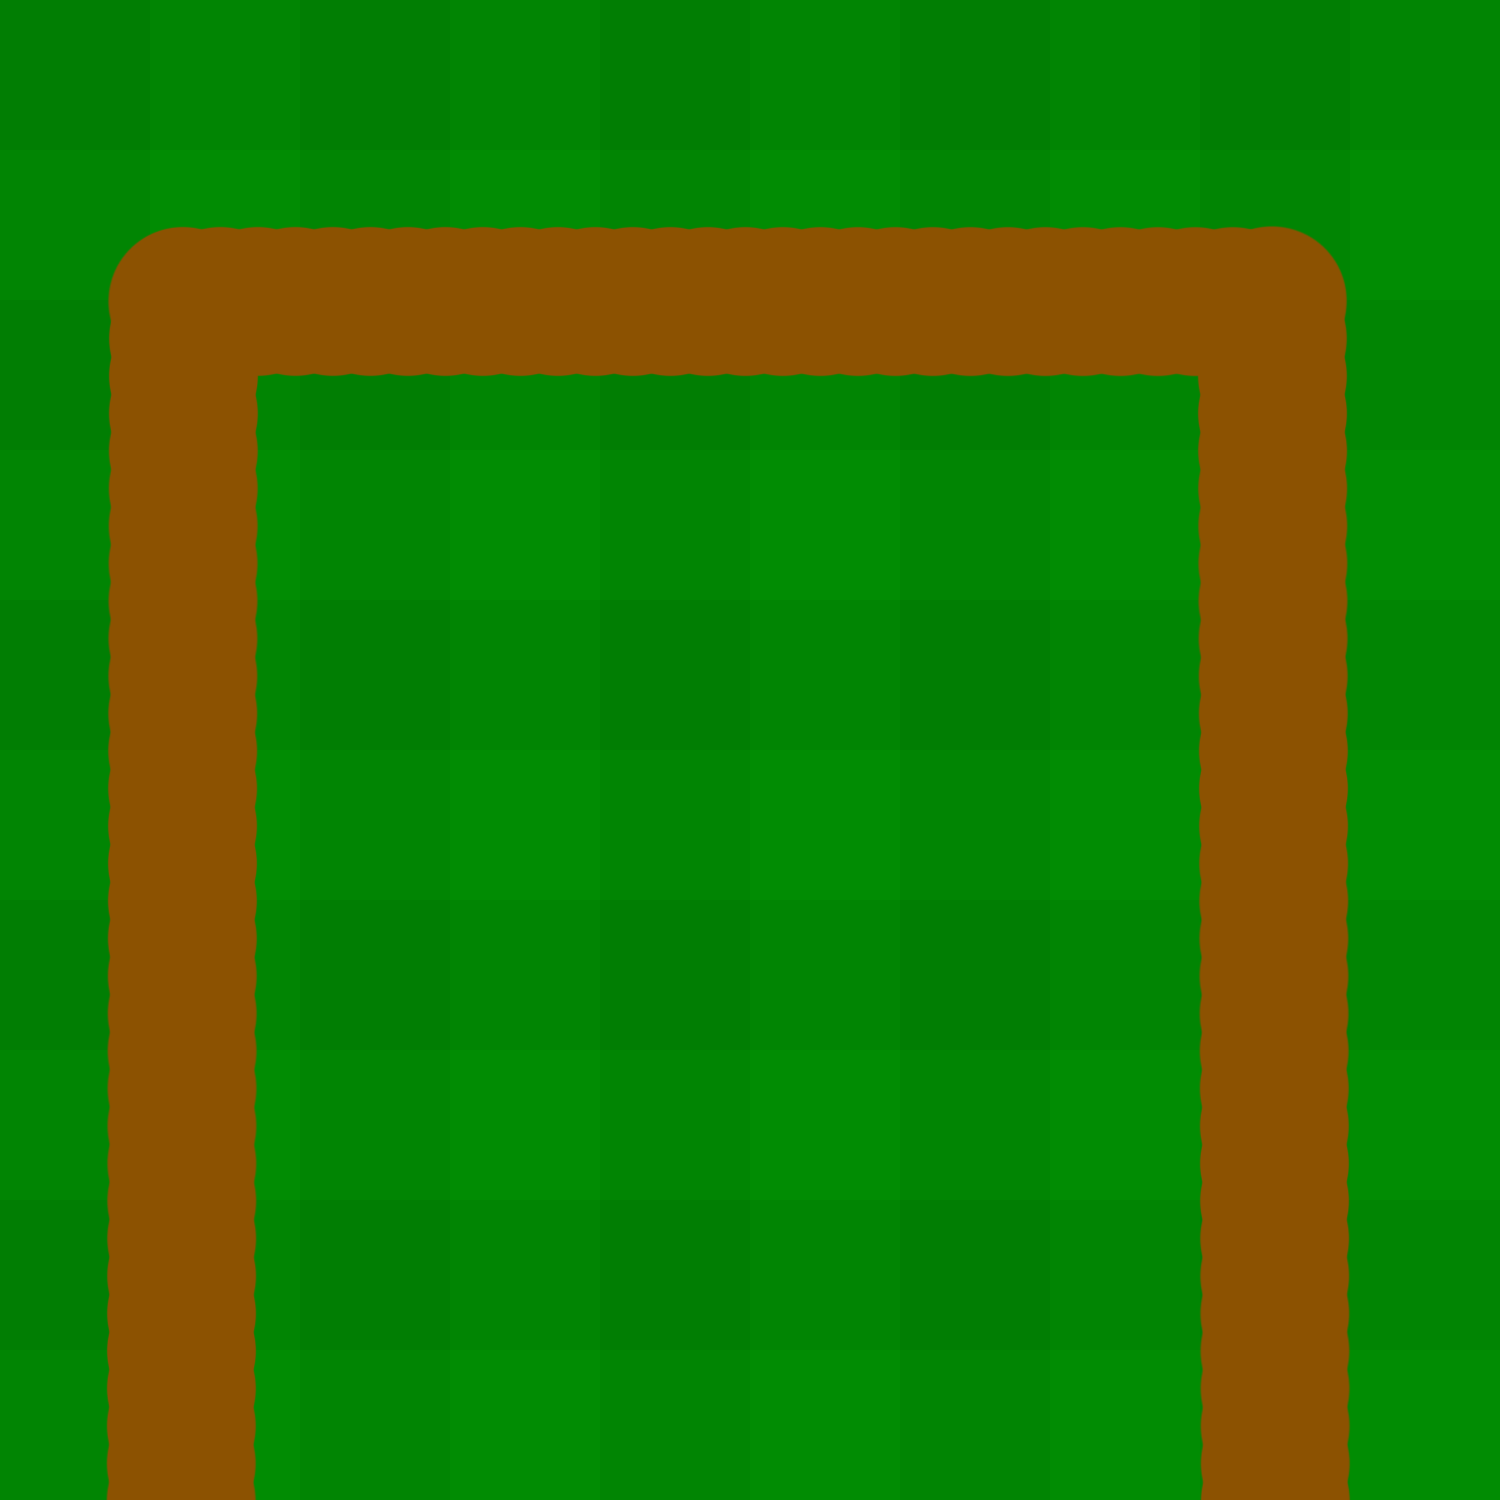
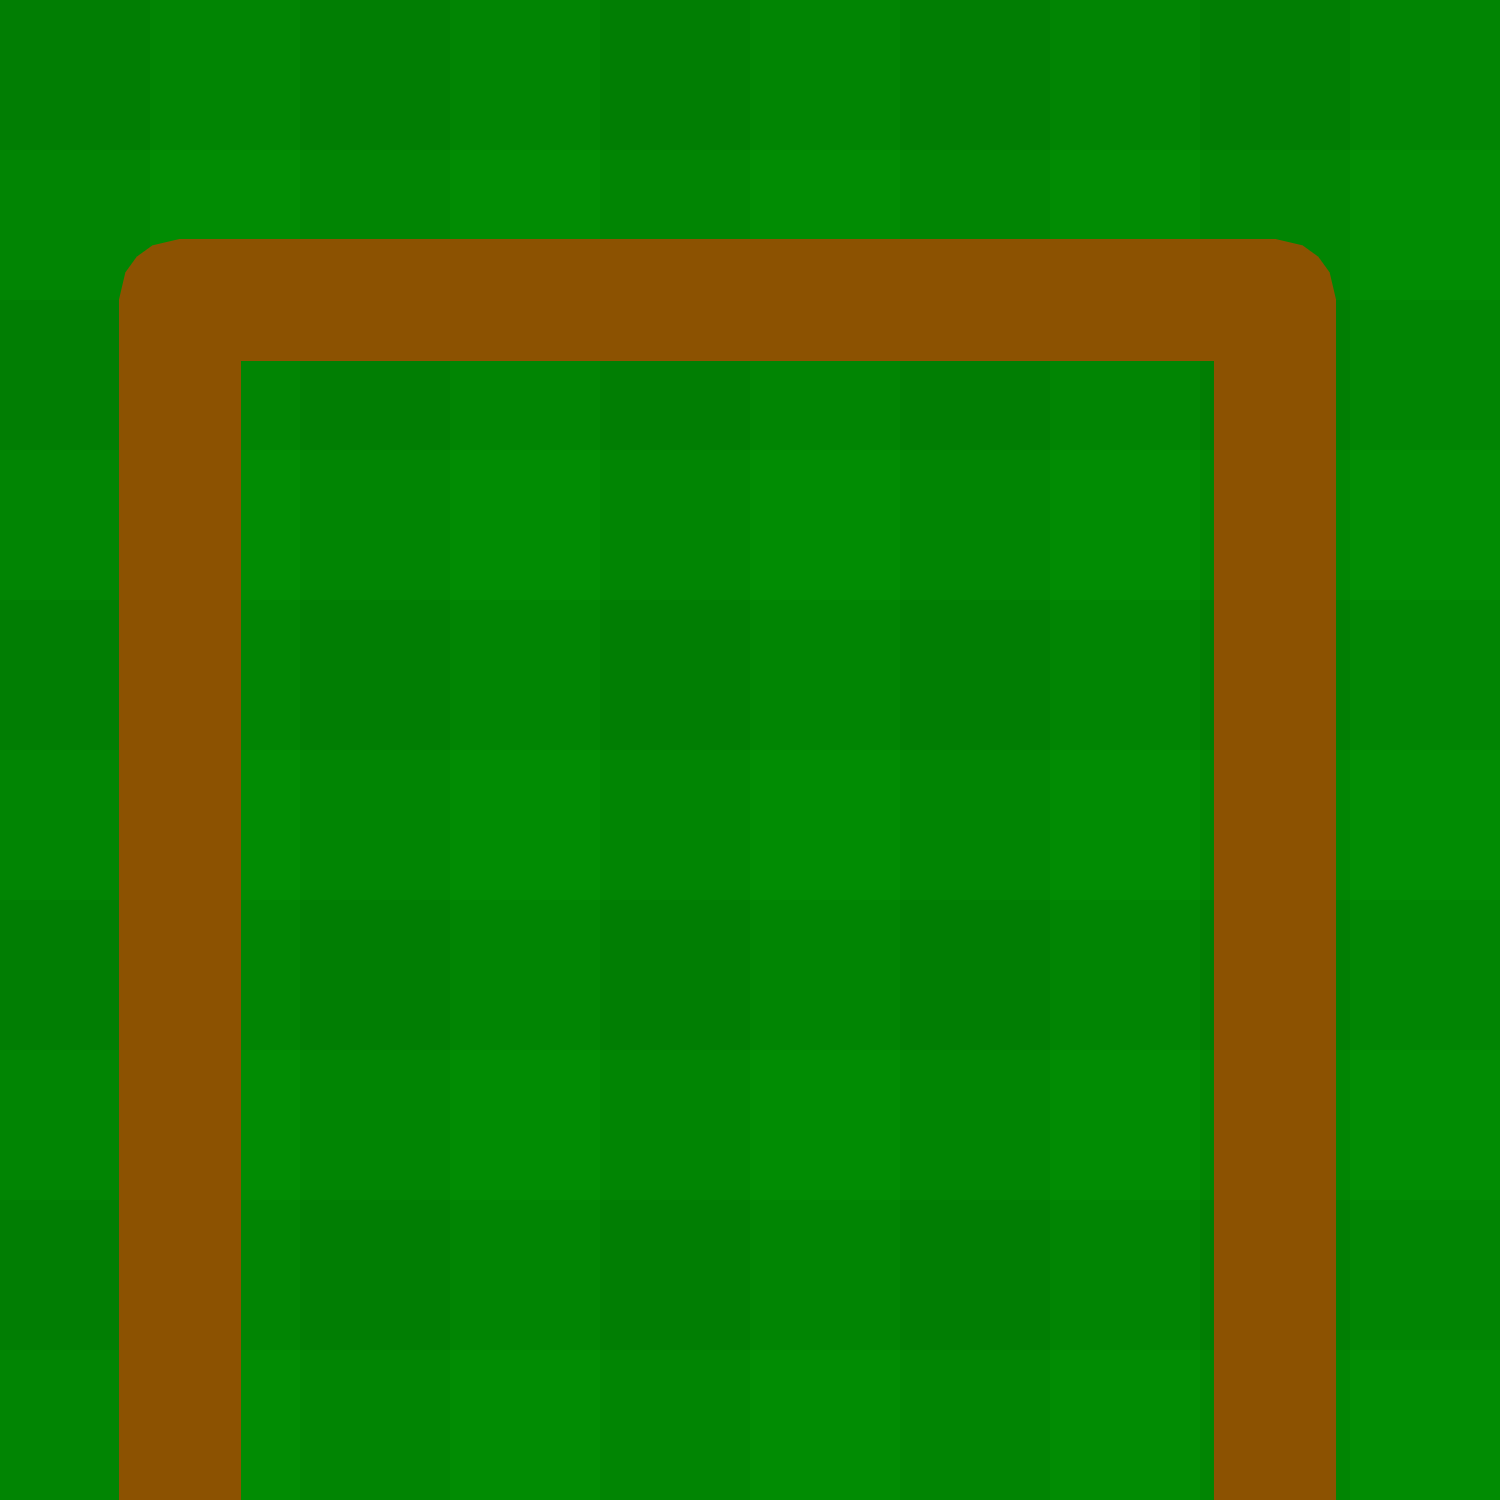
Reduce path widths

Changed region(s): [[0.1533, 0.2147, 0.828, 1.0], [0.0613, 0.1533, 0.8893, 1.0], [0.8893, 0.184, 0.92, 1.0]]

diff --git a/app/objects/board.js b/app/objects/board.js
@@ -1,7 +1,7 @@
 import Ember from 'ember';
 import { mobDimensions } from 'tower-defense/objects/mob';
 
-export const pathWidth = mobDimensions * 2.5;
+export const pathWidth = mobDimensions * 2;
 export const boardPaddingPct = 2;
 
 const Board = Ember.Object.extend({
